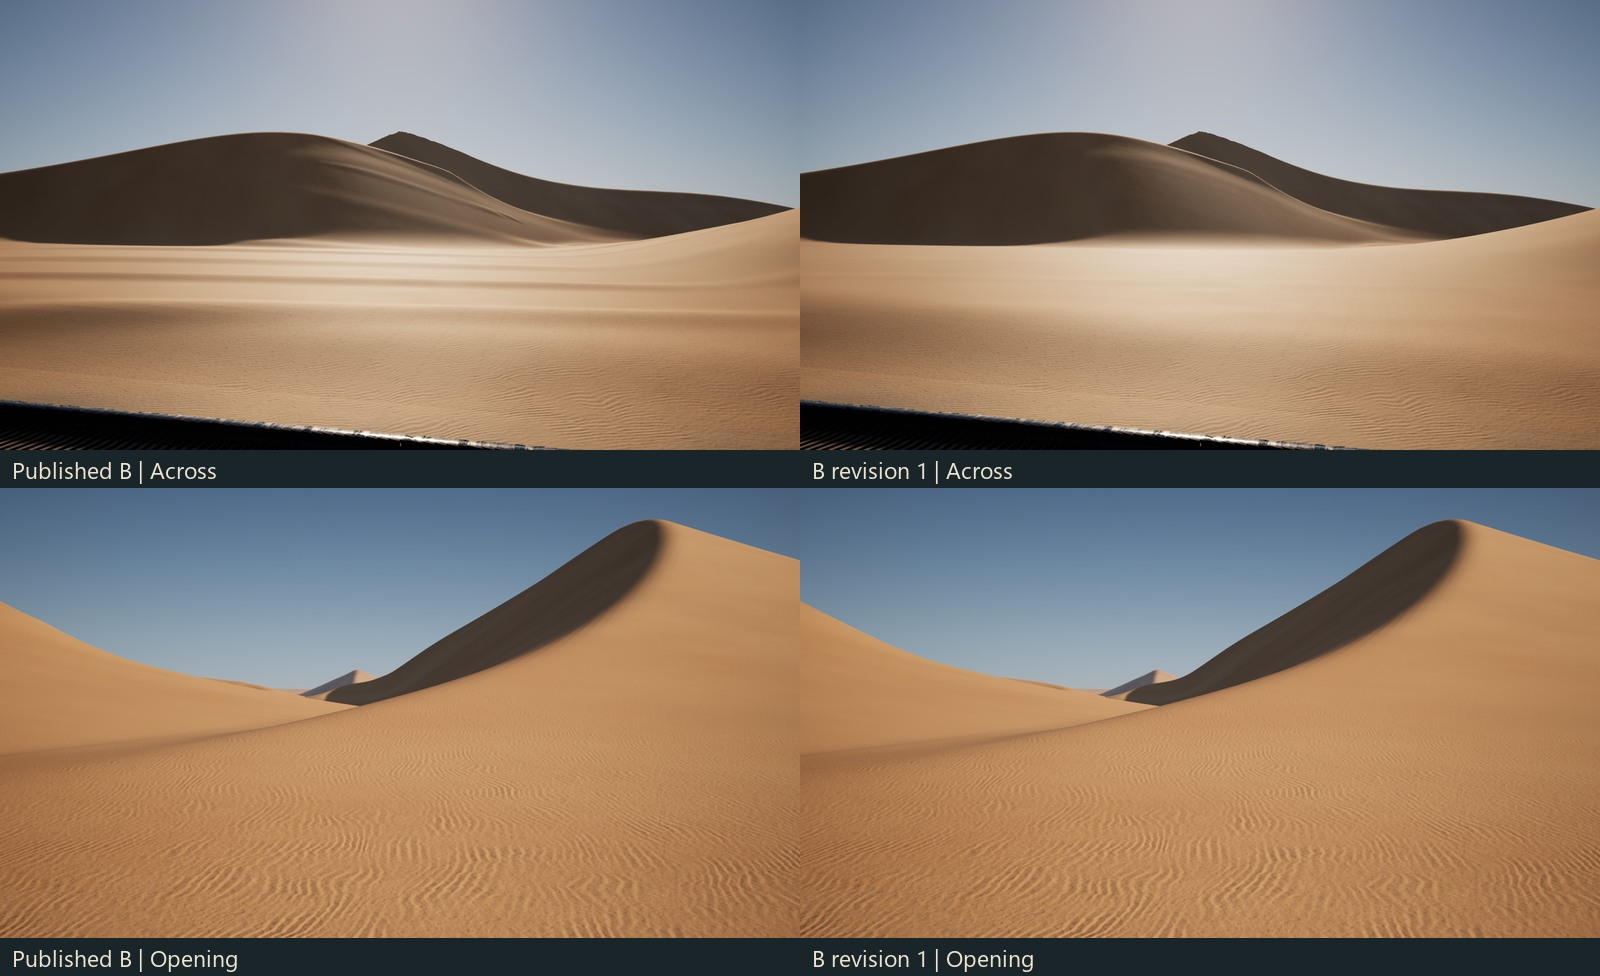
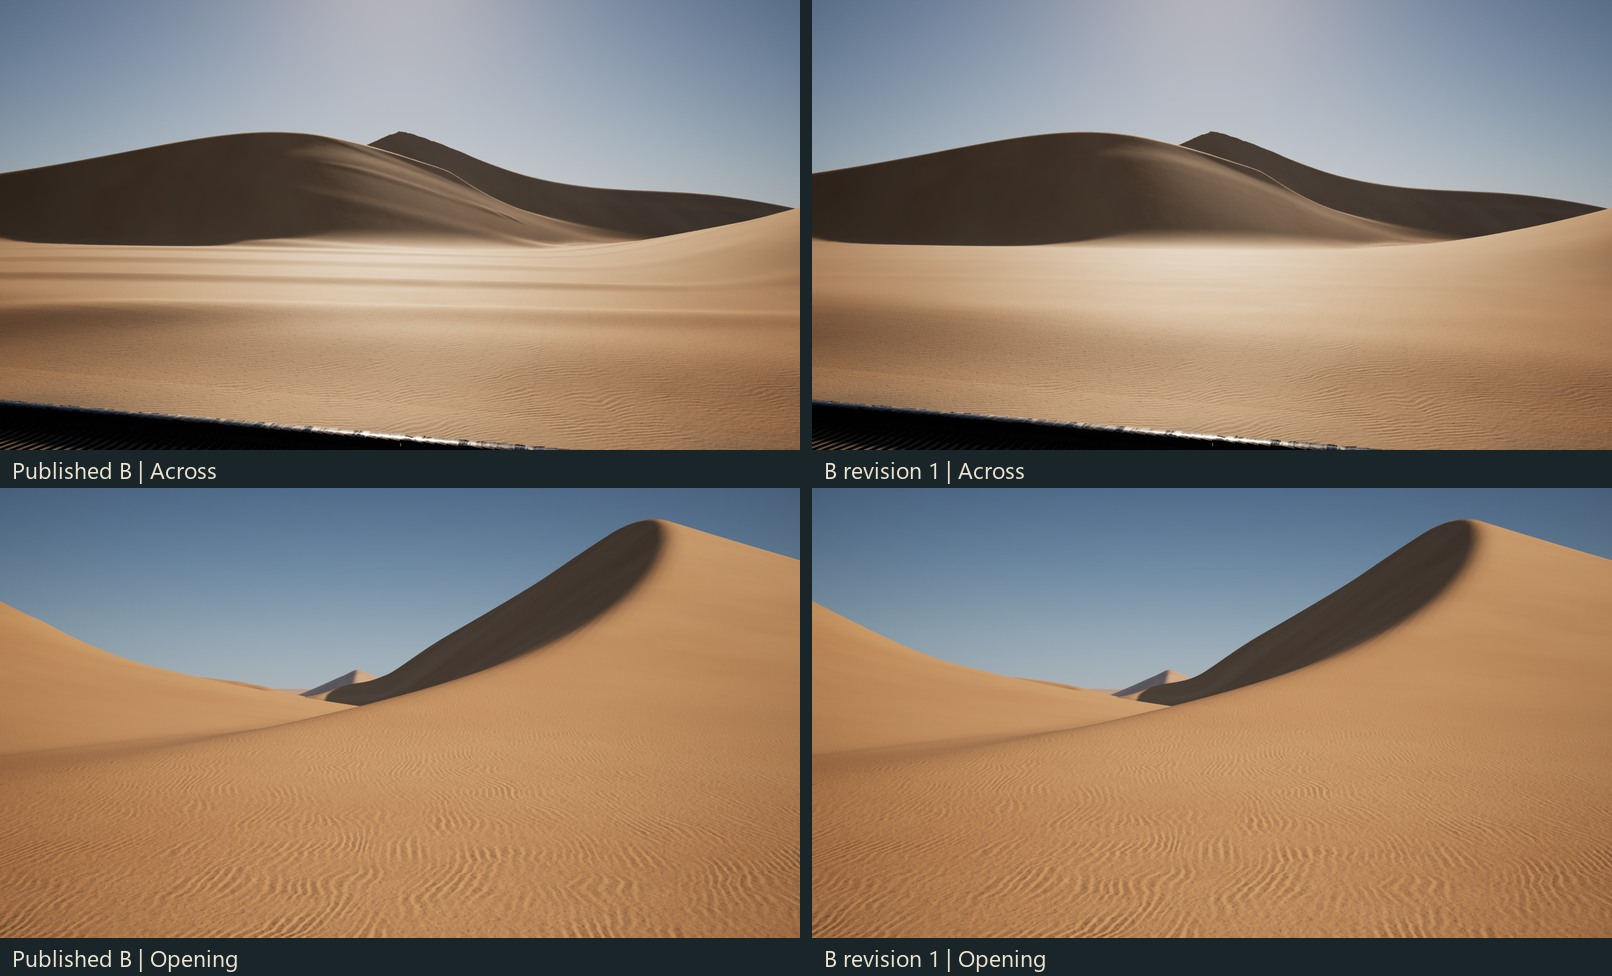
M27.3 R1: correct collage-edge interpretation and separate comparison panels

diff --git a/VisualReviews/WorldGenerator/M27.3/R1/README.md b/VisualReviews/WorldGenerator/M27.3/R1/README.md
@@ -68,6 +68,8 @@ Overview samples and consecutive frame crops were inspected. Terrain moves conti
 
 The corrected B is the recommended replacement for the banded B presentation. The foreground-to-middle-distance transition is substantially quieter, while the large dune composition remains comparable.
 
-The large silhouettes can still look too smooth; some ridge profiles remain conspicuously shaped, and the abrupt crest segment at the right of the Opening view remains visible. The cloud sheet is an inexpensive approximation, and dark train contact areas remain dark. No complete photorealism or production readiness is claimed.
+The large silhouettes can still look too smooth and some ridge profiles remain conspicuously shaped. The cloud sheet is an inexpensive approximation, and dark train contact areas remain dark. Fine aliasing and rare frame-time spikes remain as described above. No complete photorealism or production readiness is claimed.
+
+**Report correction, 5 November:** direct inspection of the original full-resolution Opening screenshot did not show the previously reported abrupt vertical crest segment. That impression came from adjoining comparison panels, not a confirmed terrain defect. The comparison collages now have an explicit 12-pixel separator. Scene geometry, original screenshots and test results are unchanged.
 
 Please evaluate the Across improvement, continuity during the train journey, the remaining crest shapes and the presentation lighting. Stop here for artistic review; no map expansion, new biome or Railway rewrite is included.
